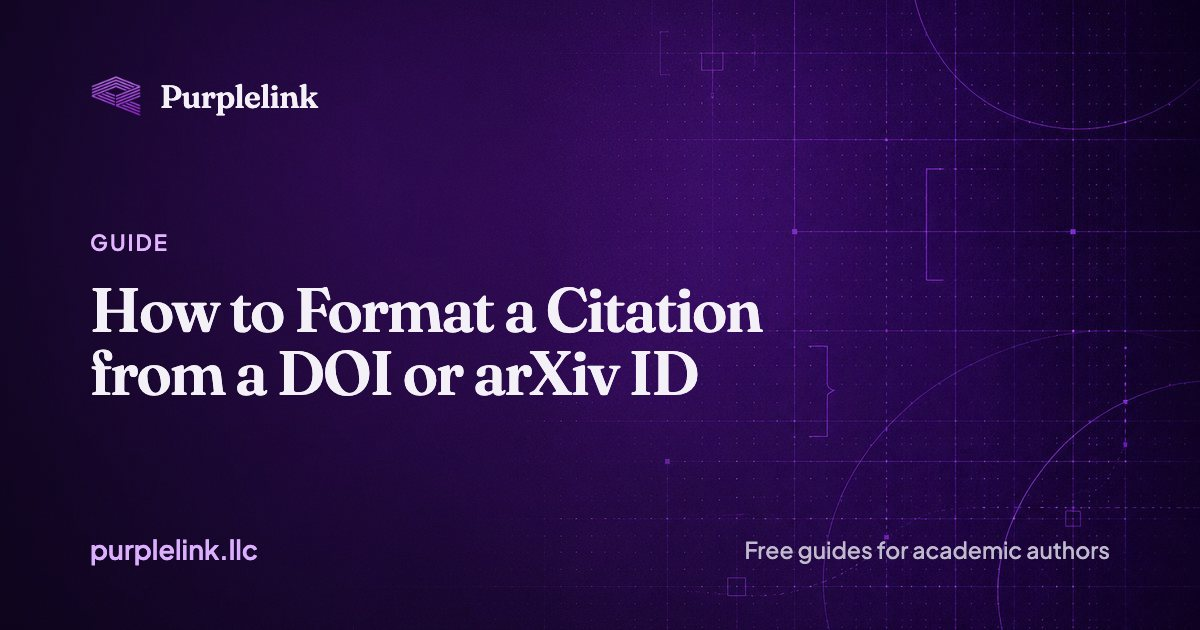
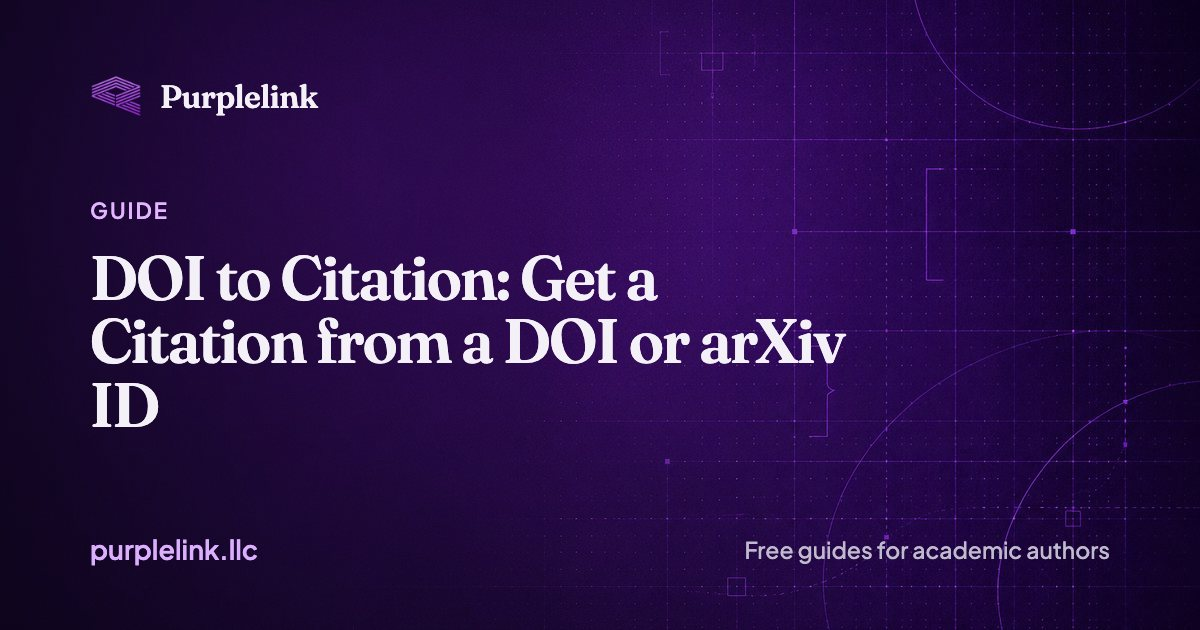
Search: link the LaTeX editor guide from format and template hubs; retitle three guides (#845)
- 26 /format/ venue pages, the /format/ and /templates/ hubs and /guides/latex/ now link to
  /guides/best-mac-latex-editors/ with the anchor "LaTeX editor for Mac" (29 pages). The retired
  format generator template carries the same line.
- install-latex-on-mac: title leads with "MacTeX vs BasicTeX".
- overleaf-compile-timeout: title leads with "Needs more compile time on Overleaf".
- format-citation-from-doi-arxiv-id: title, H1 and description target "DOI to citation".
- og:title, twitter:title, JSON-LD headline and related-link anchors follow; DOI card re-rendered.

Changed region(s): [[0.0617, 0.3016, 0.7092, 0.6937]]

diff --git a/site/guides/format-citation-from-doi-arxiv-id/index.html b/site/guides/format-citation-from-doi-arxiv-id/index.html
@@ -4,29 +4,29 @@
     <meta charset="utf-8">
     <meta name="viewport" content="width=device-width, initial-scale=1">
     <meta name="robots" content="index, follow">
-    <title>How to Format a Citation from a DOI or arXiv ID | Purplelink</title>
-    <meta name="description" content="Researchers use Purplelink's free Citation Generator to turn a DOI, arXiv ID, or ISBN into a formatted APA, MLA, Chicago, or IEEE citation in seconds.">
+    <title>DOI to Citation: Get a Citation from a DOI or arXiv ID</title>
+    <meta name="description" content="Paste a DOI and get the citation in APA, MLA, Chicago and IEEE. The free Citation Generator also takes arXiv IDs and ISBNs, and runs in your browser.">
     <link rel="canonical" href="https://purplelink.llc/guides/format-citation-from-doi-arxiv-id/">
-    <meta property="og:title" content="How to Format a Citation from a DOI or arXiv ID">
-    <meta property="og:description" content="Researchers use Purplelink's free Citation Generator to turn a DOI, arXiv ID, or ISBN into a formatted APA, MLA, Chicago, or IEEE citation in seconds.">
+    <meta property="og:title" content="DOI to Citation: Get a Citation from a DOI or arXiv ID">
+    <meta property="og:description" content="Paste a DOI and get the citation in APA, MLA, Chicago and IEEE. The free Citation Generator also takes arXiv IDs and ISBNs, and runs in your browser.">
     <meta property="og:type" content="article">
     <meta property="og:url" content="https://purplelink.llc/guides/format-citation-from-doi-arxiv-id/">
     <meta property="og:image" content="https://purplelink.llc/assets/og/cards/guides-format-citation-from-doi-arxiv-id.jpg">
     <meta property="og:image:width" content="1200">
     <meta property="og:image:height" content="630">
     <meta name="twitter:card" content="summary_large_image">
-    <meta name="twitter:title" content="How to Format a Citation from a DOI or arXiv ID">
-    <meta name="twitter:description" content="Researchers use Purplelink's free Citation Generator to turn a DOI, arXiv ID, or ISBN into a formatted APA, MLA, Chicago, or IEEE citation in seconds.">
+    <meta name="twitter:title" content="DOI to Citation: Get a Citation from a DOI or arXiv ID">
+    <meta name="twitter:description" content="Paste a DOI and get the citation in APA, MLA, Chicago and IEEE. The free Citation Generator also takes arXiv IDs and ISBNs, and runs in your browser.">
     <meta name="twitter:image" content="https://purplelink.llc/assets/og/cards/guides-format-citation-from-doi-arxiv-id.jpg">
-    <meta name="twitter:image:alt" content="How to Format a Citation from a DOI or arXiv ID">
+    <meta name="twitter:image:alt" content="DOI to Citation: Get a Citation from a DOI or arXiv ID">
     <script type="application/ld+json">
     {
       "@context": "https://schema.org",
       "@graph": [
         {
           "@type": "Article",
-          "headline": "How to Format a Citation from a DOI or arXiv ID",
-          "description": "Researchers use Purplelink's free Citation Generator to turn a DOI, arXiv ID, or ISBN into a formatted APA, MLA, Chicago, or IEEE citation in seconds.",
+          "headline": "DOI to Citation: Get a Citation from a DOI or arXiv ID",
+          "description": "Paste a DOI and get the citation in APA, MLA, Chicago and IEEE. The free Citation Generator also takes arXiv IDs and ISBNs, and runs in your browser.",
           "author": { "@id": "https://purplelink.llc/about/#person" },
           "publisher": { "@id": "https://purplelink.llc/#organization" },
           "datePublished": "2026-08-27",
@@ -38,7 +38,7 @@
           "itemListElement": [
             { "@type": "ListItem", "position": 1, "name": "Home",   "item": "https://purplelink.llc/" },
             { "@type": "ListItem", "position": 2, "name": "Guides", "item": "https://purplelink.llc/guides/" },
-            { "@type": "ListItem", "position": 3, "name": "How to Format a Citation from a DOI or arXiv ID", "item": "https://purplelink.llc/guides/format-citation-from-doi-arxiv-id/" }
+            { "@type": "ListItem", "position": 3, "name": "DOI to Citation: Get a Citation from a DOI or arXiv ID", "item": "https://purplelink.llc/guides/format-citation-from-doi-arxiv-id/" }
           ]
         }
       ]
@@ -74,9 +74,9 @@
       <a class="back-link" href="/guides/">← All guides</a>
       <div class="post-hero">
         <p class="post-date">August 27, 2026</p>
-        <h1 class="post-title">How to Format a Citation from a DOI or arXiv ID</h1>
+        <h1 class="post-title">DOI to citation: get a citation from a DOI or arXiv ID</h1>
         <p class="post-byline">By <a href="/about/" rel="author">Benjamin Ampel</a> · <time datetime="2026-08-27">August 27, 2026</time></p>
-        <p class="post-lede">Researchers use Purplelink's free Citation Generator to turn a DOI, arXiv ID, or ISBN into a formatted APA, MLA, Chicago, or IEEE citation in seconds.</p>
+        <p class="post-lede">Paste a DOI and get the citation in APA, MLA, Chicago and IEEE. The free Citation Generator also takes arXiv IDs and ISBNs, and runs in your browser.</p>
       </div>
       <div class="post-body">
         <p>Researchers preparing a manuscript bibliography use the Citation Generator to convert a DOI (digital object identifier), arXiv ID, or ISBN (International Standard Book Number) into a formatted citation without opening a reference manager. The tool fetches metadata from public databases and formats the result in the browser. No account is needed.</p>

diff --git a/site/guides/overleaf-compile-timeout/index.html b/site/guides/overleaf-compile-timeout/index.html
@@ -4,10 +4,10 @@
     <meta charset="utf-8">
     <meta name="viewport" content="width=device-width, initial-scale=1">
     <meta name="robots" content="index, follow">
-    <title>Overleaf compile timeout: &quot;needs more compile time&quot; fix</title>
+    <title>Needs more compile time on Overleaf? Fix the timeout</title>
     <meta name="description" content="Overleaf says your project needs more compile time? The free plan stops a compile at 10 seconds. Fixes to try in order, and when a local compile is simpler.">
     <link rel="canonical" href="https://purplelink.llc/guides/overleaf-compile-timeout/">
-    <meta property="og:title" content="Overleaf compile timeout: &quot;needs more compile time&quot; fix">
+    <meta property="og:title" content="Needs more compile time on Overleaf? Fix the timeout">
     <meta property="og:description" content="The 2026 limits by plan, the fixes worth trying in order, when staying on Overleaf is fine, and one timed local compile.">
     <meta property="og:type" content="article">
     <meta property="og:url" content="https://purplelink.llc/guides/overleaf-compile-timeout/">
@@ -15,7 +15,7 @@
     <meta property="og:image:width" content="1200">
     <meta property="og:image:height" content="630">
     <meta name="twitter:card" content="summary_large_image">
-    <meta name="twitter:title" content="Overleaf compile timeout: &quot;needs more compile time&quot; fix">
+    <meta name="twitter:title" content="Needs more compile time on Overleaf? Fix the timeout">
     <meta name="twitter:description" content="The 2026 limits by plan, the fixes worth trying in order, when staying on Overleaf is fine, and one timed local compile.">
     <meta name="twitter:image" content="https://purplelink.llc/assets/og/overleaf-compile-timeout.png">
     <meta name="twitter:image:alt" content="Overleaf compile timeout guide">
@@ -25,7 +25,7 @@
       "@graph": [
         {
           "@type": "Article",
-          "headline": "Overleaf compile timeout: \"needs more compile time\" fix",
+          "headline": "Needs more compile time on Overleaf? Fix the timeout",
           "description": "Overleaf says your project needs more compile time? The free plan stops a compile at 10 seconds. Fixes to try in order, and when a local compile is simpler.",
           "author": { "@id": "https://purplelink.llc/about/#person" },
           "publisher": { "@id": "https://purplelink.llc/#organization" },
@@ -125,7 +125,7 @@
       <a class="back-link" href="/guides/">← All guides</a>
       <div class="post-hero">
         <p class="post-date">How-to</p>
-        <h1 class="post-title">Overleaf compile timeout 2026: fix or go local</h1>
+        <h1 class="post-title">Needs more compile time on Overleaf? Fix it or go local</h1>
         <p class="post-byline">By <a href="/about/" rel="author">Benjamin Ampel</a> · <time datetime="2026-10-05">October 5, 2026</time>, updated <time datetime="2026-10-13">October 13, 2026</time></p>
         <p class="post-lede">Overleaf stops a compile that runs past its limit, which its plan-limits page lists as 10 seconds on the free plan and 240 seconds (4 minutes) on premium plans. Most timeouts come from a short list of causes you can fix inside the project. If yours is a heavy project that simply needs more time, a local build has no limit.</p>
       </div>

diff --git a/site/guides/install-latex-on-mac/index.html b/site/guides/install-latex-on-mac/index.html
@@ -4,10 +4,10 @@
     <meta charset="utf-8">
     <meta name="viewport" content="width=device-width, initial-scale=1">
     <meta name="robots" content="index, follow">
-    <title>Install LaTeX on a Mac: MacTeX vs BasicTeX, Homebrew</title>
+    <title>MacTeX vs BasicTeX: Install LaTeX on a Mac (2026)</title>
     <meta name="description" content="MacTeX (6.4 GB) or BasicTeX (134 MB)? Install either with Homebrew, including mactex-no-gui, or the installer, check that it works, and add packages with tlmgr.">
     <link rel="canonical" href="https://purplelink.llc/guides/install-latex-on-mac/">
-    <meta property="og:title" content="Install LaTeX on a Mac: MacTeX vs BasicTeX, Homebrew">
+    <meta property="og:title" content="MacTeX vs BasicTeX: Install LaTeX on a Mac (2026)">
     <meta property="og:description" content="MacTeX is a 6.4 GB installer, BasicTeX 134 MB and TinyTeX about 67 MB. Steps for each, how to check the install, and how to add packages.">
     <meta property="og:type" content="article">
     <meta property="og:url" content="https://purplelink.llc/guides/install-latex-on-mac/">
@@ -15,7 +15,7 @@
     <meta property="og:image:width" content="1200">
     <meta property="og:image:height" content="630">
     <meta name="twitter:card" content="summary_large_image">
-    <meta name="twitter:title" content="Install LaTeX on a Mac: MacTeX vs BasicTeX, Homebrew">
+    <meta name="twitter:title" content="MacTeX vs BasicTeX: Install LaTeX on a Mac (2026)">
     <meta name="twitter:description" content="MacTeX is a 6.4 GB installer, BasicTeX 134 MB and TinyTeX about 67 MB. Steps for each, how to check the install, and how to add packages.">
     <meta name="twitter:image" content="https://purplelink.llc/assets/og/install-latex-on-mac.png">
     <meta name="twitter:image:alt" content="How to install LaTeX on a Mac, setup guide">
@@ -25,7 +25,7 @@
       "@graph": [
         {
           "@type": "Article",
-          "headline": "Install LaTeX on a Mac: MacTeX vs BasicTeX, Homebrew",
+          "headline": "MacTeX vs BasicTeX: Install LaTeX on a Mac (2026)",
           "description": "How to install LaTeX on a Mac: what MacTeX, BasicTeX and TinyTeX are and how big they are, install steps with Homebrew and the installer package, how to check the install, add missing packages with tlmgr, pick an editor and fix common errors.",
           "author": { "@id": "https://purplelink.llc/about/#person" },
           "publisher": { "@id": "https://purplelink.llc/#organization" },
@@ -141,7 +141,7 @@
       <a class="back-link" href="/guides/">← All guides</a>
       <div class="post-hero">
         <p class="post-date">How-to</p>
-        <h1 class="post-title">How to install LaTeX on a Mac: MacTeX, BasicTeX or TinyTeX</h1>
+        <h1 class="post-title">MacTeX vs BasicTeX: how to install LaTeX on a Mac</h1>
         <p class="post-byline">By <a href="/about/" rel="author">Benjamin Ampel</a> · <time datetime="2026-10-09">October 9, 2026</time></p>
         <p class="post-lede">Install MacTeX if you have the disk space and want everything to work the first time. Install BasicTeX or TinyTeX if you want a small download and will add packages by name. Then pick an editor. The TeX Users Group (TUG) lists the MacTeX installer at 6.4 GB and BasicTeX at 134 MB.</p>
       </div>

diff --git a/site/format/index.html b/site/format/index.html
@@ -162,6 +162,7 @@
         <h2>How to use these pages</h2>
         <p>Find your venue in the lists above and open its page. Every page has a section on what the venue expects and a LaTeX template section, a short list of frequently asked questions, and a &ldquo;Where this comes from&rdquo; section with links to the venue&rsquo;s own instructions. Most pages go further. They show the bibliography setup, three example references, common mistakes and ways to check your .bib file, and many show the date the rules were last read against the sources.</p>
         <p>Every page also carries the same reference converter, which turns BibTeX, RIS or EndNote into one of the other two. It opens already set to the output the venue is likely to need: BibTeX on most pages, and EndNote on the MISQ, JMIS, ISJ and ICIS pages. The conversion happens in your browser and nothing you paste is uploaded.</p>
+        <p>If you write the paper in LaTeX on a Mac, the <a href="/guides/best-mac-latex-editors/">LaTeX editor for Mac</a> guide compares the editors that compile these style files.</p>
       </section>
 
       <section class="tool-howto">

diff --git a/site/format/references-for-usenix-security/index.html b/site/format/references-for-usenix-security/index.html
@@ -200,6 +200,7 @@
         <p class="eyebrow">From the maker of these tools</p>
         <h2>Writing LaTeX on a Mac?</h2>
         <p>ModernTex is a native macOS LaTeX studio. It has multi-file manuscript navigation, a PDF preview that stays in sync, BibTeX completion that searches by author or title, and compile errors in plain language. $19.99 once, all updates included, forever.</p>
+        <p>Still choosing? The <a href="/guides/best-mac-latex-editors/">LaTeX editor for Mac</a> guide compares ModernTex with TeXShop, Texifier, VS Code and Overleaf.</p>
         <div class="waitlist-actions">
           <a class="btn btn-primary" href="/.netlify/functions/moderntex-download?src=guide&amp;trial=1" data-track="guide_mtx_trial" data-track-meta="format:references-for-usenix-security:end">Try ModernTex free for 7 days</a>
           <a class="btn btn-ghost" href="/moderntex/" data-track="guide_mtx_click" data-track-meta="format:references-for-usenix-security:end-page">See what it does</a>

diff --git a/site/format/references-for-springer-lncs/index.html b/site/format/references-for-springer-lncs/index.html
@@ -258,6 +258,7 @@
         <p class="eyebrow">From the maker of these tools</p>
         <h2>Writing LaTeX on a Mac?</h2>
         <p>ModernTex is a native macOS LaTeX studio. It has multi-file manuscript navigation, a PDF preview that stays in sync, BibTeX completion that searches by author or title, and compile errors in plain language. $19.99 once, all updates included, forever.</p>
+        <p>Still choosing? The <a href="/guides/best-mac-latex-editors/">LaTeX editor for Mac</a> guide compares ModernTex with TeXShop, Texifier, VS Code and Overleaf.</p>
         <div class="waitlist-actions">
           <a class="btn btn-primary" href="/.netlify/functions/moderntex-download?src=guide&amp;trial=1" data-track="guide_mtx_trial" data-track-meta="format:references-for-springer-lncs:end">Try ModernTex free for 7 days</a>
           <a class="btn btn-ghost" href="/moderntex/" data-track="guide_mtx_click" data-track-meta="format:references-for-springer-lncs:end-page">See what it does</a>

diff --git a/site/format/references-for-ieee-tdsc/index.html b/site/format/references-for-ieee-tdsc/index.html
@@ -200,6 +200,7 @@
         <p class="eyebrow">From the maker of these tools</p>
         <h2>Writing LaTeX on a Mac?</h2>
         <p>ModernTex is a native macOS LaTeX studio. It has multi-file manuscript navigation, a PDF preview that stays in sync, BibTeX completion that searches by author or title, and compile errors in plain language. $19.99 once, all updates included, forever.</p>
+        <p>Still choosing? The <a href="/guides/best-mac-latex-editors/">LaTeX editor for Mac</a> guide compares ModernTex with TeXShop, Texifier, VS Code and Overleaf.</p>
         <div class="waitlist-actions">
           <a class="btn btn-primary" href="/.netlify/functions/moderntex-download?src=guide&amp;trial=1" data-track="guide_mtx_trial" data-track-meta="format:references-for-ieee-tdsc:end">Try ModernTex free for 7 days</a>
           <a class="btn btn-ghost" href="/moderntex/" data-track="guide_mtx_click" data-track-meta="format:references-for-ieee-tdsc:end-page">See what it does</a>

diff --git a/site/format/references-for-acm-csur/index.html b/site/format/references-for-acm-csur/index.html
@@ -215,6 +215,7 @@
         <p class="eyebrow">From the maker of these tools</p>
         <h2>Writing LaTeX on a Mac?</h2>
         <p>ModernTex is a native macOS LaTeX studio. It has multi-file manuscript navigation, a PDF preview that stays in sync, BibTeX completion that searches by author or title, and compile errors in plain language. $19.99 once, all updates included, forever.</p>
+        <p>Still choosing? The <a href="/guides/best-mac-latex-editors/">LaTeX editor for Mac</a> guide compares ModernTex with TeXShop, Texifier, VS Code and Overleaf.</p>
         <div class="waitlist-actions">
           <a class="btn btn-primary" href="/.netlify/functions/moderntex-download?src=guide&amp;trial=1" data-track="guide_mtx_trial" data-track-meta="format:references-for-acm-csur:end">Try ModernTex free for 7 days</a>
           <a class="btn btn-ghost" href="/moderntex/" data-track="guide_mtx_click" data-track-meta="format:references-for-acm-csur:end-page">See what it does</a>

diff --git a/site/format/references-for-plos-one/index.html b/site/format/references-for-plos-one/index.html
@@ -264,6 +264,7 @@
         <p class="eyebrow">From the maker of these tools</p>
         <h2>Writing LaTeX on a Mac?</h2>
         <p>ModernTex is a native macOS LaTeX studio. It has multi-file manuscript navigation, a PDF preview that stays in sync, BibTeX completion that searches by author or title, and compile errors in plain language. $19.99 once, all updates included, forever.</p>
+        <p>Still choosing? The <a href="/guides/best-mac-latex-editors/">LaTeX editor for Mac</a> guide compares ModernTex with TeXShop, Texifier, VS Code and Overleaf.</p>
         <div class="waitlist-actions">
           <a class="btn btn-primary" href="/.netlify/functions/moderntex-download?src=guide&amp;trial=1" data-track="guide_mtx_trial" data-track-meta="format:references-for-plos-one:end">Try ModernTex free for 7 days</a>
           <a class="btn btn-ghost" href="/moderntex/" data-track="guide_mtx_click" data-track-meta="format:references-for-plos-one:end-page">See what it does</a>

diff --git a/site/format/references-for-acm-ccs/index.html b/site/format/references-for-acm-ccs/index.html
@@ -215,6 +215,7 @@
         <p class="eyebrow">From the maker of these tools</p>
         <h2>Writing LaTeX on a Mac?</h2>
         <p>ModernTex is a native macOS LaTeX studio. It has multi-file manuscript navigation, a PDF preview that stays in sync, BibTeX completion that searches by author or title, and compile errors in plain language. $19.99 once, all updates included, forever.</p>
+        <p>Still choosing? The <a href="/guides/best-mac-latex-editors/">LaTeX editor for Mac</a> guide compares ModernTex with TeXShop, Texifier, VS Code and Overleaf.</p>
         <div class="waitlist-actions">
           <a class="btn btn-primary" href="/.netlify/functions/moderntex-download?src=guide&amp;trial=1" data-track="guide_mtx_trial" data-track-meta="format:references-for-acm-ccs:end">Try ModernTex free for 7 days</a>
           <a class="btn btn-ghost" href="/moderntex/" data-track="guide_mtx_click" data-track-meta="format:references-for-acm-ccs:end-page">See what it does</a>

diff --git a/site/format/references-for-ieee-sp/index.html b/site/format/references-for-ieee-sp/index.html
@@ -215,6 +215,7 @@
         <p class="eyebrow">From the maker of these tools</p>
         <h2>Writing LaTeX on a Mac?</h2>
         <p>ModernTex is a native macOS LaTeX studio. It has multi-file manuscript navigation, a PDF preview that stays in sync, BibTeX completion that searches by author or title, and compile errors in plain language. $19.99 once, all updates included, forever.</p>
+        <p>Still choosing? The <a href="/guides/best-mac-latex-editors/">LaTeX editor for Mac</a> guide compares ModernTex with TeXShop, Texifier, VS Code and Overleaf.</p>
         <div class="waitlist-actions">
           <a class="btn btn-primary" href="/.netlify/functions/moderntex-download?src=guide&amp;trial=1" data-track="guide_mtx_trial" data-track-meta="format:references-for-ieee-sp:end">Try ModernTex free for 7 days</a>
           <a class="btn btn-ghost" href="/moderntex/" data-track="guide_mtx_click" data-track-meta="format:references-for-ieee-sp:end-page">See what it does</a>

diff --git a/site/format/references-for-science/index.html b/site/format/references-for-science/index.html
@@ -259,6 +259,7 @@
         <p class="eyebrow">From the maker of these tools</p>
         <h2>Writing LaTeX on a Mac?</h2>
         <p>ModernTex is a native macOS LaTeX studio. It has multi-file manuscript navigation, a PDF preview that stays in sync, BibTeX completion that searches by author or title, and compile errors in plain language. $19.99 once, all updates included, forever.</p>
+        <p>Still choosing? The <a href="/guides/best-mac-latex-editors/">LaTeX editor for Mac</a> guide compares ModernTex with TeXShop, Texifier, VS Code and Overleaf.</p>
         <div class="waitlist-actions">
           <a class="btn btn-primary" href="/.netlify/functions/moderntex-download?src=guide&amp;trial=1" data-track="guide_mtx_trial" data-track-meta="format:references-for-science:end">Try ModernTex free for 7 days</a>
           <a class="btn btn-ghost" href="/moderntex/" data-track="guide_mtx_click" data-track-meta="format:references-for-science:end-page">See what it does</a>
